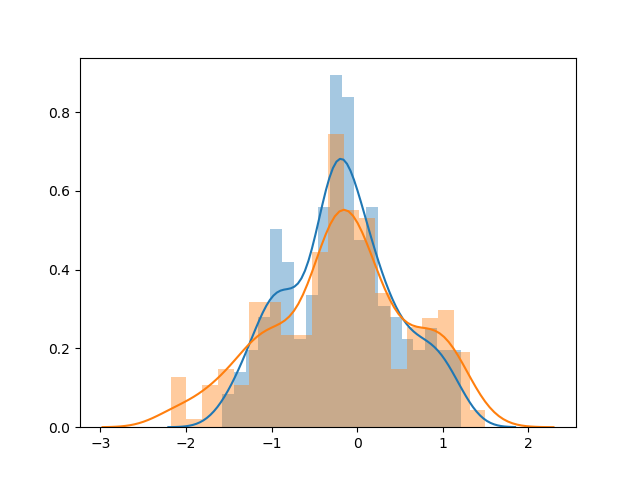
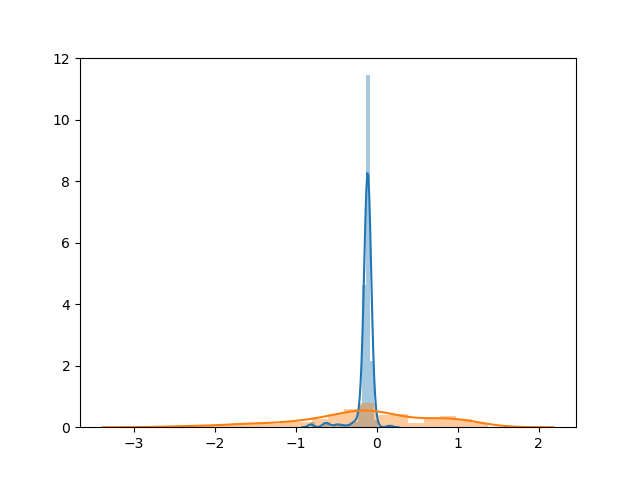
add bayesian function for detected galaxys parameter estimation

diff --git a/scripts/tools_for_VAE/tools_for_VAE/model.py b/scripts/tools_for_VAE/tools_for_VAE/model.py
@@ -161,31 +161,7 @@ def create_model_full_prob_flipout(input_shape, latent_dim, hidden_dim, filters,
 
 
 # Model with coordinate of target galaxy
-def create_model_wo_ls_with_coord(input_shape, latent_dim, hidden_dim, filters, kernels, final_dim, conv_activation=None, dense_activation=None):
-    input_layer_1 = Input(shape=(input_shape)) 
-    input_layer_2 = Input(shape=(2,)) 
-    # Encoding part
-    #input_layer_2 =tf.keras.layers.Embedding((2,), (64,64,6))(input_layer_2)
-    #h = tf.keras.layers.concatenate([input_layer_1, input_layer_2], axis=-1)
-
-    h = BatchNormalization()(input_layer_1)
-    for i in range(len(filters)):
-        h = Conv2D(filters[i], (kernels[i],kernels[i]), activation=conv_activation, padding='same')(h)
-        h = PReLU()(h)
-        h = Conv2D(filters[i], (kernels[i],kernels[i]), activation=conv_activation, padding='same', strides=(2,2))(h)
-        h = PReLU()(h)
-    h = Flatten()(h)
-    h = tf.keras.layers.concatenate([h, input_layer_2], axis = -1)
-
-    h = Dense(tfp.layers.MultivariateNormalTriL.params_size(final_dim),
-                activation=None)(h)
-    h = tfp.layers.MultivariateNormalTriL(final_dim)(h)
-
-    model = Model([input_layer_1, input_layer_2],h)
-
-    return model
-
-def create_model_wo_ls_with_coord_2(input_shape, latent_dim, hidden_dim, filters, kernels, final_dim, conv_activation=None, dense_activation=None):
+def create_model_wo_ls_peak(input_shape, latent_dim, hidden_dim, filters, kernels, final_dim, conv_activation=None, dense_activation=None):
     input_layer_1 = Input(shape=(input_shape)) 
     input_layer_2 = Input(shape=(input_shape)) 
     # Encoding part
@@ -217,22 +193,103 @@ def create_model_wo_ls_with_coord_2(input_shape, latent_dim, hidden_dim, filters
     return model
 
 
-def create_model_wo_ls_with_coord_3(input_shape, latent_dim, hidden_dim, filters, kernels, final_dim, conv_activation=None, dense_activation=None):
+def create_model_prob_flipout_peak(input_shape, latent_dim, hidden_dim, filters, kernels, final_dim, conv_activation=None, dense_activation=None):
     input_layer_1 = Input(shape=(input_shape)) 
     input_layer_2 = Input(shape=(input_shape)) 
     # Encoding part
-    h = tf.keras.layers.concatenate([input_layer_1, input_layer_2], axis=-1)
-
+    h = tf.keras.layers.concatenate([input_layer_1, tf.keras.layers.multiply([input_layer_1, input_layer_2])], axis=-1)
     h = BatchNormalization()(h)
+    h_2 = input_layer_2
     for i in range(len(filters)):
-        h = Conv2D(filters[i], (kernels[i],kernels[i]), activation=conv_activation, padding='same')(h)
-        h = PReLU()(h)
-        h = Conv2D(filters[i], (kernels[i],kernels[i]), activation=conv_activation, padding='same', strides=(2,2))(h)
-        h = PReLU()(h)
-    h = Flatten()(h)
+        h_2 = tfp.layers.Convolution2DFlipout(filters[i], (kernels[i],kernels[i]),
+                                            kernel_posterior_fn=get_posterior_fn(),
+                                            #kernel_posterior_fn=ktied_distribution.get_ktied_posterior_fn(),
+                                            kernel_divergence_fn=kernel_divergence_fn,
+                                            activation=conv_activation, 
+                                            padding='same')(h_2)
+        h_2 = PReLU()(h_2)
+        h_2 = tfp.layers.Convolution2DFlipout(filters[i], (kernels[i],kernels[i]),
+                                            kernel_posterior_fn=get_posterior_fn(),
+                                            #kernel_posterior_fn=ktied_distribution.get_ktied_posterior_fn(),
+                                            kernel_divergence_fn=kernel_divergence_fn,
+                                            activation=conv_activation, 
+                                            padding='same', strides=(2,2))(h_2)
+        h_2 = PReLU()(h_2)
 
-    h = Dense(tfp.layers.MultivariateNormalTriL.params_size(final_dim),
-                activation=None)(h)
+        h = tfp.layers.Convolution2DFlipout(filters[i], (kernels[i],kernels[i]),
+                                            kernel_posterior_fn=get_posterior_fn(),
+                                            #kernel_posterior_fn=ktied_distribution.get_ktied_posterior_fn(),
+                                            kernel_divergence_fn=kernel_divergence_fn,
+                                            activation=conv_activation, 
+                                            padding='same')(h)
+        h = PReLU()(h)
+        h = tfp.layers.Convolution2DFlipout(filters[i], (kernels[i],kernels[i]),
+                                            kernel_posterior_fn=get_posterior_fn(),
+                                            #kernel_posterior_fn=ktied_distribution.get_ktied_posterior_fn(),
+                                            kernel_divergence_fn=kernel_divergence_fn,
+                                            activation=conv_activation, 
+                                            padding='same', strides=(2,2))(h)
+        h = PReLU()(h)
+
+        h = tf.keras.layers.concatenate([h, h_2], axis =-1)
+
+    h = Flatten()(h)
+    h = tfp.layers.DenseFlipout(tfp.layers.MultivariateNormalTriL.params_size(final_dim), 
+                                    kernel_posterior_fn=ktied_distribution.get_ktied_posterior_fn(),
+                                    kernel_divergence_fn = kernel_divergence_fn,
+                                    activation=None)(h)
+    h = tfp.layers.MultivariateNormalTriL(final_dim)(h)
+
+    model = Model([input_layer_1, input_layer_2],h)
+
+    return model
+
+
+def create_model_prob_rt_peak(input_shape, latent_dim, hidden_dim, filters, kernels, final_dim, conv_activation=None, dense_activation=None):
+    input_layer_1 = Input(shape=(input_shape)) 
+    input_layer_2 = Input(shape=(input_shape)) 
+    # Encoding part
+    h = tf.keras.layers.concatenate([input_layer_1, tf.keras.layers.multiply([input_layer_1, input_layer_2])], axis=-1)
+    h = BatchNormalization()(h)
+    h_2 = input_layer_2
+    for i in range(len(filters)):
+        h_2 = tfp.layers.Convolution2DReparameterization(filters[i], (kernels[i],kernels[i]),
+                                            kernel_posterior_fn=get_posterior_fn(),
+                                            #kernel_posterior_fn=ktied_distribution.get_ktied_posterior_fn(),
+                                            kernel_divergence_fn=kernel_divergence_fn,
+                                            activation=conv_activation, 
+                                            padding='same')(h_2)
+        h_2 = PReLU()(h_2)
+        h_2 = tfp.layers.Convolution2DReparameterization(filters[i], (kernels[i],kernels[i]),
+                                            kernel_posterior_fn=get_posterior_fn(),
+                                            #kernel_posterior_fn=ktied_distribution.get_ktied_posterior_fn(),
+                                            kernel_divergence_fn=kernel_divergence_fn,
+                                            activation=conv_activation, 
+                                            padding='same', strides=(2,2))(h_2)
+        h_2 = PReLU()(h_2)
+
+        h = tfp.layers.Convolution2DReparameterization(filters[i], (kernels[i],kernels[i]),
+                                            kernel_posterior_fn=get_posterior_fn(),
+                                            #kernel_posterior_fn=ktied_distribution.get_ktied_posterior_fn(),
+                                            kernel_divergence_fn=kernel_divergence_fn,
+                                            activation=conv_activation, 
+                                            padding='same')(h)
+        h = PReLU()(h)
+        h = tfp.layers.Convolution2DReparameterization(filters[i], (kernels[i],kernels[i]),
+                                            kernel_posterior_fn=get_posterior_fn(),
+                                            #kernel_posterior_fn=ktied_distribution.get_ktied_posterior_fn(),
+                                            kernel_divergence_fn=kernel_divergence_fn,
+                                            activation=conv_activation, 
+                                            padding='same', strides=(2,2))(h)
+        h = PReLU()(h)
+
+        h = tf.keras.layers.concatenate([h, h_2], axis =-1)
+
+    h = Flatten()(h)
+    h = tfp.layers.DenseReparameterization(tfp.layers.MultivariateNormalTriL.params_size(final_dim), 
+                                    kernel_posterior_fn=ktied_distribution.get_ktied_posterior_fn(),
+                                    kernel_divergence_fn = kernel_divergence_fn,
+                                    activation=None)(h)
     h = tfp.layers.MultivariateNormalTriL(final_dim)(h)
 
     model = Model([input_layer_1, input_layer_2],h)

diff --git a/scripts/parameter_estimation/param_estimation_blended_coord.py b/scripts/parameter_estimation/param_estimation_blended_coord.py
@@ -133,19 +133,19 @@ test_ds = tf.data.Dataset.from_generator(test_batch_generator,
 print('construction OK')
 #print('construction OK: '+str((iter(test_ds))))
 #### Model definition
-model_choice = 'wo_ls'
+model_choice = 'full_prob_flipout'
 # With latent space
 if model_choice == 'ls':
     net = model.create_model(input_shape, latent_dim, hidden_dim, filters, kernels, final_dim, conv_activation=None, dense_activation=None)
 # Without latent space
 if model_choice == 'wo_ls':
-    net = model.create_model_wo_ls_with_coord_2(input_shape, latent_dim, hidden_dim, filters, kernels, final_dim, conv_activation=None, dense_activation=None)
+    net = model.create_model_wo_ls_peak(input_shape, latent_dim, hidden_dim, filters, kernels, final_dim, conv_activation=None, dense_activation=None)
 # Full probabilistic model with reparametrization trick
 if model_choice == 'full_prob_rt':
-    net = model.create_model_full_prob_rt(input_shape, latent_dim, hidden_dim, filters, kernels, final_dim, conv_activation=None, dense_activation=None)
+    net = model.create_model_prob_rt_peak(input_shape, latent_dim, hidden_dim, filters, kernels, final_dim, conv_activation=None, dense_activation=None)
 # Full probabilistic model with flipout
 if model_choice == 'full_prob_flipout':
-    net = model.create_model_full_prob_flipout(input_shape, latent_dim, hidden_dim, filters, kernels, final_dim, conv_activation=None, dense_activation=None)
+    net = model.create_model_prob_flipout_peak(input_shape, latent_dim, hidden_dim, filters, kernels, final_dim, conv_activation=None, dense_activation=None)
 net.summary()
 
 #### Loss definition
@@ -175,10 +175,10 @@ net.compile(optimizer=tf.optimizers.Adam(learning_rate=1e-4),
 
 
 # if str(sys.argv[3]).lower() == 'true':
-loading_path = '/sps/lsst/users/barcelin/TFP/weights/test_coord_4/loss/'#test_coord_2/loss/  # test_coord_1/loss/
-print(loading_path)
-latest = tf.train.latest_checkpoint(loading_path)
-net.load_weights(latest)
+#loading_path = '/sps/lsst/users/barcelin/TFP/weights/test_coord_4/loss/'#test_coord_2/loss/  # test_coord_1/loss/
+#print(loading_path)
+#latest = tf.train.latest_checkpoint(loading_path)
+#net.load_weights(latest)
 
 
 # Callbacks
